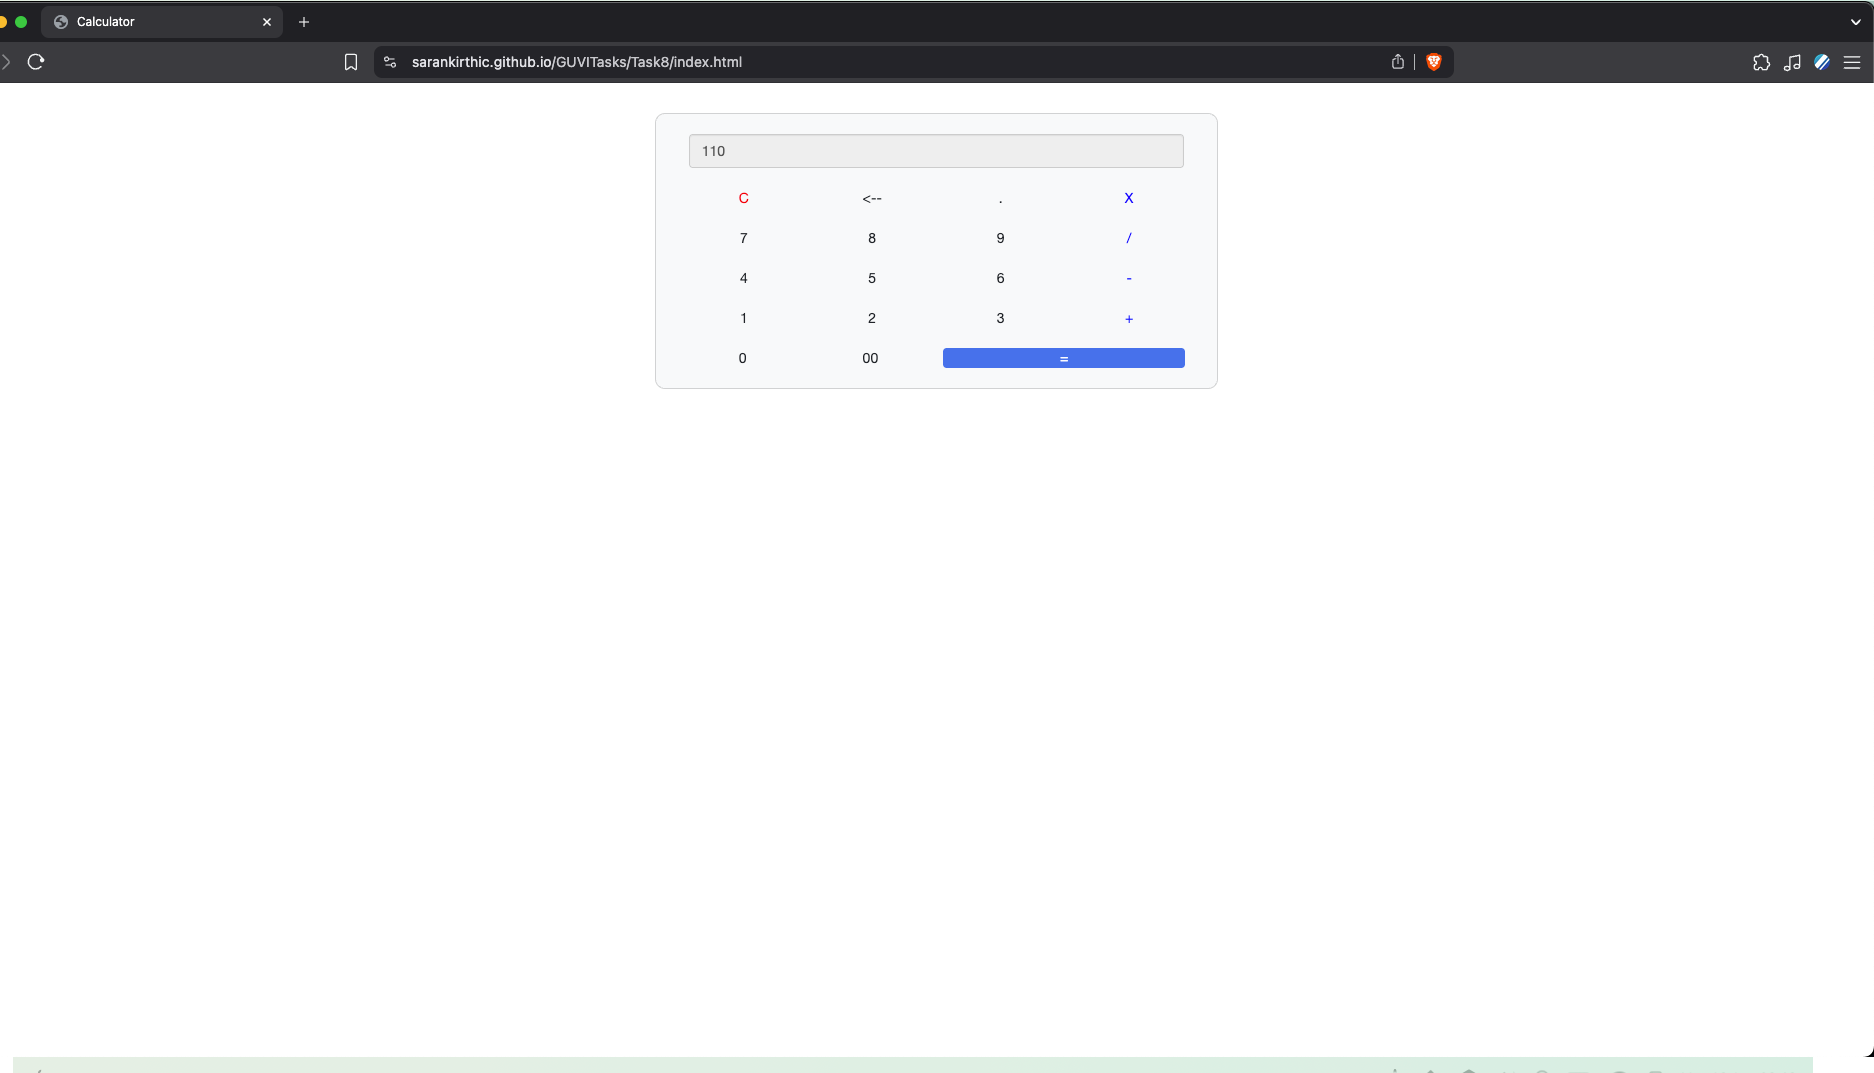
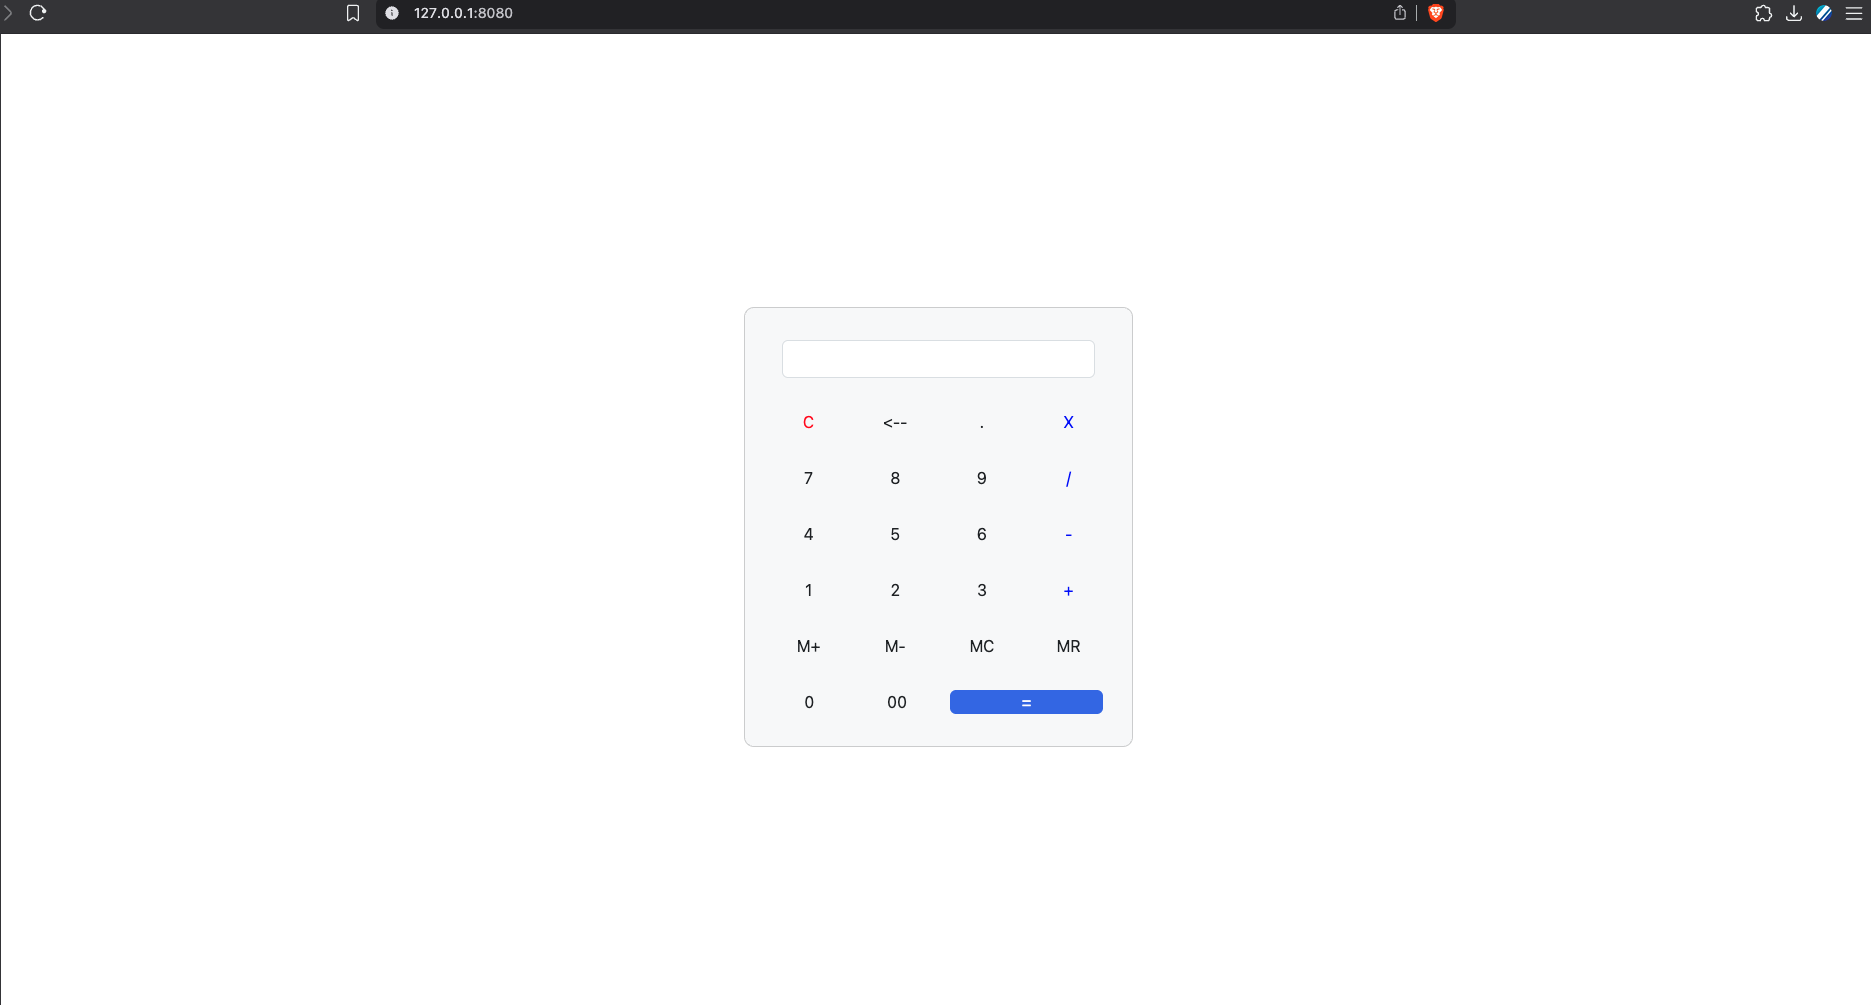
created a calculator web application

diff --git a/Task8/index.html b/Task8/index.html
@@ -1,5 +1,4 @@
 <!DOCTYPE html>
-<html lang="en">
 <head>
     <meta charset="UTF-8">
     <meta name="viewport" content="width=device-width, initial-scale=1.0">
@@ -9,48 +8,73 @@
         div .card a:hover:not(.active) {
             background-color: #5f00b0;
         }
+
+        .float-container {
+            margin: 1rem;
+            padding: 2rem 2rem;
+            text-align: left;
+            padding-left: 20%;
+        }
+
+        .float-child {
+            display: inline-block;
+            padding: 1rem 1rem;
+            vertical-align: middle;
+        }
     </style>
 </head>
-<body style="display: flex; justify-content: center; align-items: center; padding-top: 15%;">
-    <div class="container card p-3 mt-5" style="max-width: 30%; margin: auto; background-color: #f8f9fa; border-radius: 10px;">
-        <div class="row" style="display: flex; justify-content: center;">
-            <div class="col-12 p-3"style="display: flex; justify-content: center;">
-                <label for="display"></label>
-                <input id="display" type="text" class="form-control" style="max-width:90%;" disabled>
-            </div>
-            <div class="row p-3 text-center" style="display: flex; justify-content: space-around;">
-                <div class="col-3 card" style="max-width: 20%; color: red; border: none; background-color: #f8f9fa;" onclick="clearDisplay()">C</div>
-                <div class="col-3 card" style="max-width: 20%; border: none; background-color: #f8f9fa;" onclick="backspace()"><--</div>
-                <div class="col-3 card" style="max-width: 20%; border: none; background-color: #f8f9fa;" onclick="setValue('.')">.</div>
-                <div class="col-3 card" style="max-width: 20%; color: blue; border: none; background-color: #f8f9fa;" onclick="setValue('X')">X</div>
-            </div>
-            <div class="row p-3 text-center" style="display: flex; justify-content: space-around;">
-                <div class="col-3 card" style="max-width: 20%; border: none; background-color: #f8f9fa;" onclick="setValue(7)">7</div>
-                <div class="col-3 card" style="max-width: 20%; border: none; background-color: #f8f9fa;" onclick="setValue(8)">8</div>
-                <div class="col-3 card" style="max-width: 20%; border: none; background-color: #f8f9fa;" onclick="setValue(9)">9</div>
-                <div class="col-3 card" style="max-width: 20%; color: blue; border: none; background-color: #f8f9fa;" onclick="setValue('/')">/</div>
-            </div>
-            <div class="row p-3 text-center" style="display: flex; justify-content: space-around;">
-                <div class="col-3 card" style="max-width: 20%; border: none; background-color: #f8f9fa;" onclick="setValue(4)">4</div>
-                <div class="col-3 card" style="max-width: 20%; border: none; background-color: #f8f9fa;" onclick="setValue(5)">5</div>
-                <div class="col-3 card" style="max-width: 20%; border: none; background-color: #f8f9fa;" onclick="setValue(6)">6</div>
-                <div class="col-3 card" style="max-width: 20%; color: blue; border: none; background-color: #f8f9fa;" onclick="setValue('-')">-</div>
-            </div>
-            <div class="row p-3 text-center" style="display: flex; justify-content: space-around;">
-                <div class="col-3 card" style="max-width: 20%; border: none; background-color: #f8f9fa;" onclick="setValue(1)">1</div>
-                <div class="col-3 card" style="max-width: 20%; border: none; background-color: #f8f9fa;" onclick="setValue(2)">2</div>
-                <div class="col-3 card" style="max-width: 20%; border: none; background-color: #f8f9fa;" onclick="setValue(3)">3</div>
-                <div class="col-3 card" style="max-width: 20%; color: blue; border: none; background-color: #f8f9fa;" onclick="setValue('+')">+</div>
-            </div>
-            <div class="row p-3 text-center" style="display: flex; justify-content: space-around;">
-                <div class="col-3 card" style="max-width: 20%; border: none; background-color: #f8f9fa;" onclick="setValue(0)">0</div>
-                <div class="col-3 card" style="max-width: 20%; border: none; background-color: #f8f9fa;" onclick="setValue('00')">00</div>
-                <div class="col-6 card" style="max-width: 44%; border: none; background-color: #4771eb; color: white;" onclick="calculate()">=</div>
+<body>
+    <div class="container" style="text-align: center; padding-top: 10%;">
+        <div class="container card p-3 mt-5" style="max-width: 30%; margin: auto; background-color: #f8f9fa; border-radius: 10px;">
+            <h1 style="padding-bottom: 0; margin-bottom: 0">Calculator</h1>
+            <div class="row" style="display: flex; justify-content: center;">
+                <div class="col-12 p-3"style="display: flex; justify-content: center;">
+                    <label for="display"></label>
+                    <input id="display" type="text" class="form-control" style="max-width:90%;">
+                </div>
+                <div class="row p-3 text-center" style="display: flex; justify-content: space-around;">
+                    <div class="col-3 card" style="max-width: 20%; color: red; border: none; background-color: #f8f9fa;" onclick="clearDisplay()">C</div>
+                    <div class="col-3 card" style="max-width: 20%; border: none; background-color: #f8f9fa;" onclick="backspace()"><--</div>
+                    <div class="col-3 card" style="max-width: 20%; border: none; background-color: #f8f9fa;" onclick="setValue('.')">.</div>
+                    <div class="col-3 card" style="max-width: 20%; color: blue; border: none; background-color: #f8f9fa;" onclick="setValue('X')">X</div>
+                </div>
+                <div class="row p-3 text-center" style="display: flex; justify-content: space-around;">
+                    <div class="col-3 card" style="max-width: 20%; border: none; background-color: #f8f9fa;" onclick="setValue(7)">7</div>
+                    <div class="col-3 card" style="max-width: 20%; border: none; background-color: #f8f9fa;" onclick="setValue(8)">8</div>
+                    <div class="col-3 card" style="max-width: 20%; border: none; background-color: #f8f9fa;" onclick="setValue(9)">9</div>
+                    <div class="col-3 card" style="max-width: 20%; color: blue; border: none; background-color: #f8f9fa;" onclick="setValue('/')">/</div>
+                </div>
+                <div class="row p-3 text-center" style="display: flex; justify-content: space-around;">
+                    <div class="col-3 card" style="max-width: 20%; border: none; background-color: #f8f9fa;" onclick="setValue(4)">4</div>
+                    <div class="col-3 card" style="max-width: 20%; border: none; background-color: #f8f9fa;" onclick="setValue(5)">5</div>
+                    <div class="col-3 card" style="max-width: 20%; border: none; background-color: #f8f9fa;" onclick="setValue(6)">6</div>
+                    <div class="col-3 card" style="max-width: 20%; color: blue; border: none; background-color: #f8f9fa;" onclick="setValue('-')">-</div>
+                </div>
+                <div class="row p-3 text-center" style="display: flex; justify-content: space-around;">
+                    <div class="col-3 card" style="max-width: 20%; border: none; background-color: #f8f9fa;" onclick="setValue(1)">1</div>
+                    <div class="col-3 card" style="max-width: 20%; border: none; background-color: #f8f9fa;" onclick="setValue(2)">2</div>
+                    <div class="col-3 card" style="max-width: 20%; border: none; background-color: #f8f9fa;" onclick="setValue(3)">3</div>
+                    <div class="col-3 card" style="max-width: 20%; color: blue; border: none; background-color: #f8f9fa;" onclick="setValue('+')">+</div>
+                </div>
+                <div class="row p-3 text-center" style="display: flex; justify-content: space-around;">
+                    <div class="col-3 card" style="max-width: 20%; border: none; background-color: #f8f9fa;" onclick="memoryAdd()">M+</div>
+                    <div class="col-3 card" style="max-width: 20%; border: none; background-color: #f8f9fa;" onclick="memorySubtract()">M-</div>
+                    <div class="col-3 card" style="max-width: 20%; border: none; background-color: #f8f9fa;" onclick="memoryClear()">MC</div>
+                    <div class="col-3 card" style="max-width: 20%; border: none; background-color: #f8f9fa;" onclick="memoryRecall()">MR</div>
+                </div>
+                <div class="row p-3 text-center" style="display: flex; justify-content: space-around;">
+                    <div class="col-3 card" style="max-width: 20%; border: none; background-color: #f8f9fa;" onclick="setValue(0)">0</div>
+                    <div class="col-3 card" style="max-width: 20%; border: none; background-color: #f8f9fa;" onclick="setValue('00')">00</div>
+                    <div class="col-6 card" style="max-width: 44%; border: none; background-color: #4771eb; color: white;" onclick="calculate()">=</div>
+                </div>
             </div>
         </div>
     </div>
+    <script src="https://cdnjs.cloudflare.com/ajax/libs/mathjs/11.3.0/math.min.js"></script>
     <script>
         const displayEl = document.getElementById("display")
+        let memory = 0;
+
         function setValue(value) {
             displayEl.value = displayEl.value + value;
         }
@@ -60,20 +84,107 @@
         }
 
         function calculate() {
-            let expression = displayEl.value;
-            if (expression.includes('X')) {
-                expression = expression.replace(/X/g, '*');
-            }
+            let expression = displayEl.value.replace(/X/g, '*'); // Replace 'X' with '*'
+
             try {
-                displayEl.value = eval(expression);
+                displayEl.value = math.evaluate(expression);
             } catch (error) {
                 displayEl.value = "Error";
             }
         }
 
+        // Not handling multiple operators or complex expressions
+        // function calculate() {
+        //     let expression = displayEl.value;
+        //     if (expression.includes('X')) {
+        //         expression = expression.replace(/X/g, '*');
+        //     }
+        //     try {
+        //         displayEl.value = eval(expression);
+        //     } catch (error) {
+        //         displayEl.value = "Error";
+        //     }
+        // }
+
         function backspace() {
             displayEl.value = displayEl.value.slice(0, -1);
         }
+
+        displayEl.addEventListener("keydown", function(event) {
+            const allowedKeys = [
+                '0', '1', '2', '3', '4', '5', '6', '7', '8', '9',
+                '+', '-', '*', '/', '.',
+                'Backspace', 'Enter', 'Delete', 'ArrowRight', "ArrowLeft", 'Tab', 'Shift', 'Escape'
+            ];
+
+            if (event.key === 'Enter') {
+                event.preventDefault();
+                calculate();
+                return;
+            }
+
+            if (event.key === 'Escape') {
+                event.preventDefault();
+                clearDisplay();
+                return;
+            }
+
+            if (!allowedKeys.includes(event.key)) {
+                event.preventDefault();
+                alert("Invalid key pressed. Please use numbers, operators, or Backspace/Delete.");
+            }
+        });
+
+        function memoryAdd() {
+            try {
+                memory += parseFloat(displayEl.value);
+                clearDisplay();
+            } catch (error) {
+                displayEl.value = "Error";
+            }
+        }
+
+        function memorySubtract() {
+            try {
+                memory -= parseFloat(displayEl.value);
+                clearDisplay();
+            } catch (error) {
+                displayEl.value = "Error";
+            }
+        }
+
+        function memoryClear() {
+            memory = 0;
+            clearDisplay();
+        }
+
+        function memoryRecall() {
+            clearDisplay();
+            displayEl.value = memory.toString();
+        }
+
+        // Functionality to clear the display when Shift + Delete is pressed
+        // let keysPressed = {};
+        //
+        // displayEl.addEventListener('keydown', (event) => {
+        //     keysPressed[event.key] = true;
+        // });
+        //
+        // displayEl.addEventListener('keyup', (event) => {
+        //     delete keysPressed[event.key];
+        // });
+        //
+        // displayEl.addEventListener('keydown', (event) => {
+        //     keysPressed[event.key] = true;
+        //     if (keysPressed['Shift'] && event.key == 'Delete') {
+        //         clearDisplay();
+        //     }
+        // });
+        //
+        // displayEl.addEventListener('keyup', (event) => {
+        //     delete keysPressed[event.key];
+        // });
+
     </script>
 </body>
 </html>

diff --git a/Task8/README.md b/Task8/README.md
@@ -6,4 +6,25 @@ Created a simple calculator using html and javascript.
 
 Used bootstrap for styling.
 
+Since I am using a Mac, I dont have a backspace key on my keyboard.
+
+Hence,
+
+Use escape key to clear the input. 
+
+Use delete key to delete the last character.
+
+Use arrow left and right to navigate through the input.
+
+The calculator supports infix notation and doesnot throw errors for multiple operator inputs.
+Eg: 
+`2++3` will be evaluated as `2 + 3`.
+
+The calculator also supports M+, M- and MR operations to store, subtract and recall a value in memory.
+
+MC operation is also supported to clear the memory.
+
+calculator throws an error for invalid key press.
+Only numbers, operators and the above mentioned keys are allowed.
+
 ![Output](calculator.png)
